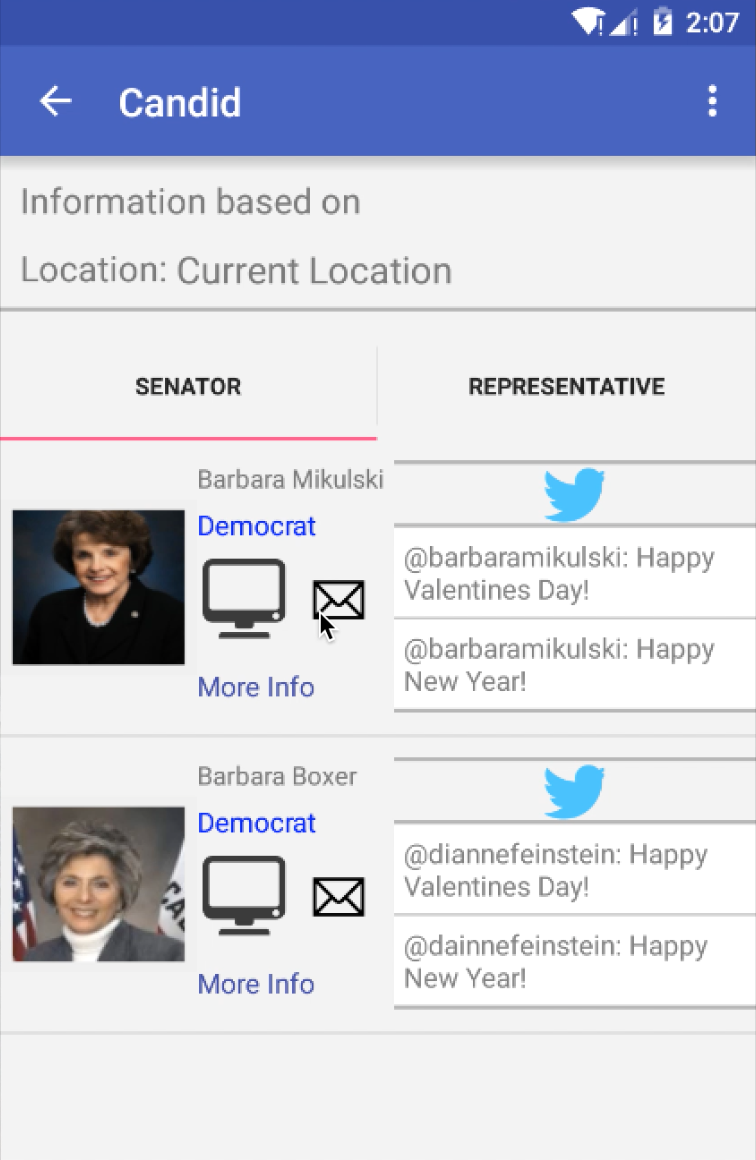
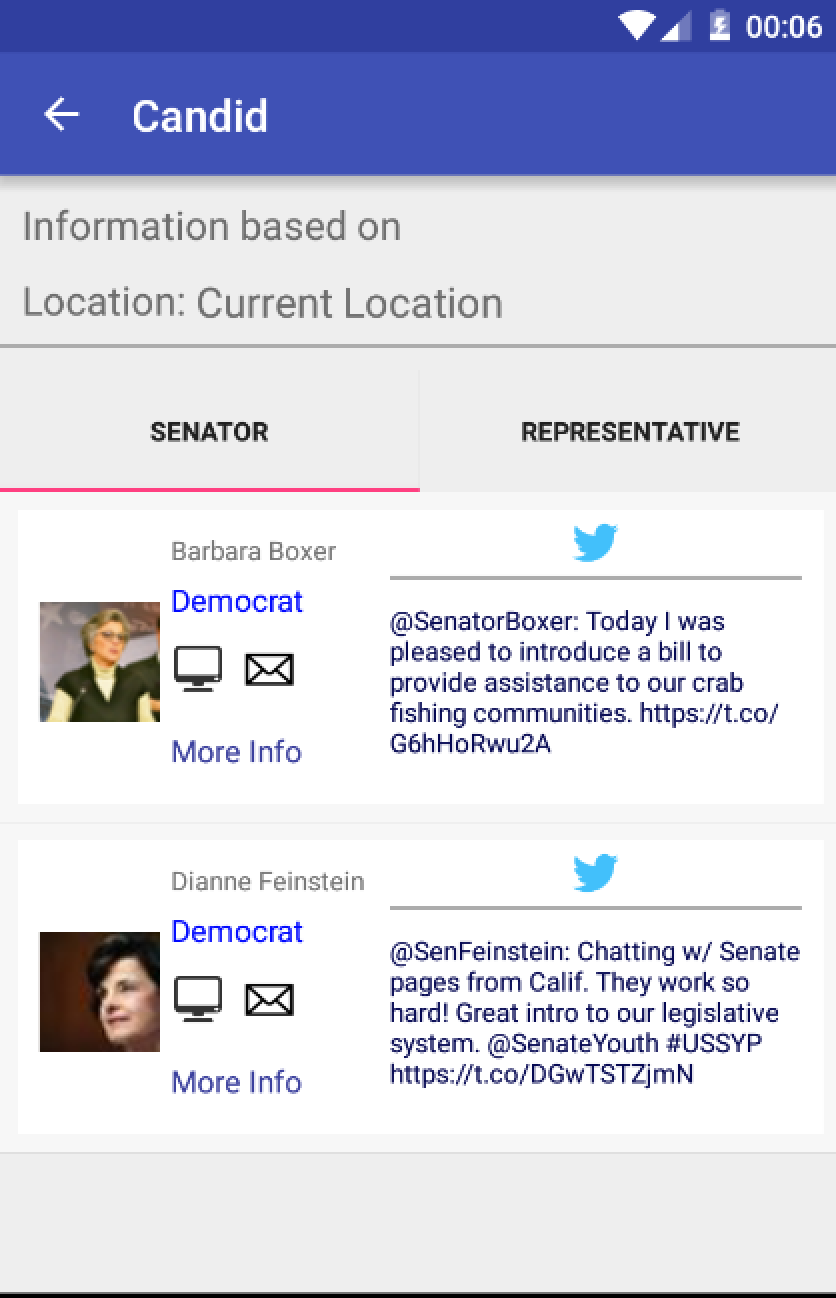
Updating screenshoot

diff --git a/README.md b/README.md
@@ -1,6 +1,6 @@
 # PROG 02: Candid!
 
-Candid is the most recent votes on the go. Note: All relevant information is hardcoded.
+Candid is the most recent votes on the go.
 
 ## Authors
 
@@ -8,7 +8,7 @@ Fendy Soegiono([fsoegiono@berkeley.edu](mailto:fsoegiono@berkeley.edu))
 
 ## Demo Video
 
-See [Candid Wireframe] (https://youtu.be/oRLNPeNx0gs)
+See [Candid Wireframe] (https://youtu.be/yMpmqgd_hXg)
 
 ## Screenshots
 
